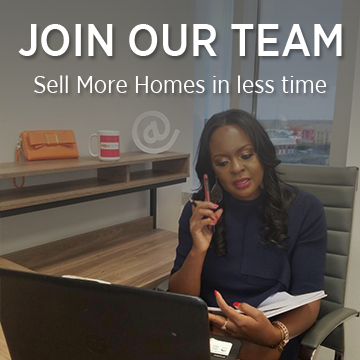
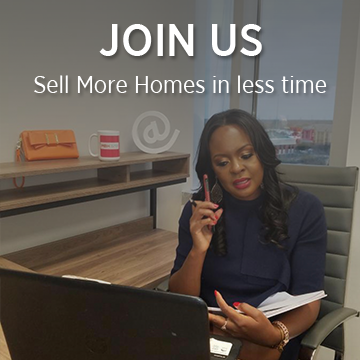
event brite and jot page

Changed region(s): [[0.0306, 0.0611, 0.9778, 0.1833]]

diff --git a/_site/join-us/index.html b/_site/join-us/index.html
@@ -16,7 +16,7 @@
   <link href='https://fonts.googleapis.com/css?family=Source+Sans+Pro:400,600,300,300italic,200' rel='stylesheet' type='text/css'>
   <!-- style-->
   <link rel="stylesheet" href="/css/main.css">
-  <link rel="canonical" href="http://localhost:4000/join-our-team/">
+  <link rel="canonical" href="http://localhost:4000/join-us/">
   <link rel="alternate" type="application/rss+xml" title="Houston's Best Real Estate Training" href="http://localhost:4000/feed.xml">
   <!-- All that meta crap -->
   <meta name="description" content="Thurayah McBride, a top Real Estate Agent in Houston, shares her own internal real estate agent training for free. Her Real Estate Training, Tips and Advice will help you sell more homes in less time.
@@ -30,7 +30,7 @@
   <meta property="og:type" content="website">
   <meta property="og:title" content="Houston Careers">
   <meta itemprop="name" content="Houston Careers">
-  <meta property="og:url" content="http://localhost:4000/join-our-team/">
+  <meta property="og:url" content="http://localhost:4000/join-us/">
   <meta property="og:description" content="Thurayah McBride, a top Real Estate Agent in Houston, shares her own internal real estate agent training for free. Her Real Estate Training, Tips and Advice will help you sell more homes in less time.">
   <meta property="og:site_name" content="Houston's Best Real Estate Training">
   <meta property="og:locale" content="en_US">
@@ -78,9 +78,9 @@
 			<li><a href="/">Home</a></li>
 			
 				
-      		<li><a href="/join-our-team/">Join Our Team</a></li>
+      		<li><a href="/join-us/">Join us</a></li>
     		
-      		<li><a href="">Events</a></li>
+      		<li><a href="http://mcbridehomegroup.eventbrite.com/">Events</a></li>
     		
       		<li><a href="/contact/">Free Strategy Call</a></li>
     		
@@ -107,8 +107,8 @@
 			<div class="row">
 				<div class="col-lg-10 col-lg-offset-1">
 					<div class="recruiting-page">
-<h1 class="join-us">Growing Real Estate Teams in Houston</h1>
-<h5 class="join-us-subtitle">How would your life change if you consistently earned $80,000, $100,000, or $150,000 or more as a full-time real estate agent?</h5>
+<!-- <h1 class="join-us">Growing Real Estate Teams in Houston</h1> -->
+<h3 class="join-us-subtitle">How would your life change if you consistently earned $80,000, $100,000, or $150,000 or more as a full-time real estate agent?</h3>
 <div class="recruiting-photo">
 <span class="client-image-container">
 <img src="/img/headshot.jpg" alt="Thurayah McBride" class="client-image" />

diff --git a/_site/homesearch/index.html b/_site/homesearch/index.html
@@ -95,9 +95,9 @@
 			<li><a href="/">Home</a></li>
 			
 				
-      		<li><a href="/join-our-team/">Join Our Team</a></li>
+      		<li><a href="/join-us/">Join us</a></li>
     		
-      		<li><a href="">Events</a></li>
+      		<li><a href="http://mcbridehomegroup.eventbrite.com/">Events</a></li>
     		
       		<li><a href="/contact/">Free Strategy Call</a></li>
     		
@@ -392,7 +392,7 @@ function setReturn(){
 
 <div class="photo-cta">
   <img src="/img/cta-images/workshop.png"  class="photo-cta-container"/>
-  <div class="cta-button"><a href="/">Reserve Your Seat   <i class="fa fa-angle-double-right"></i></a></div>
+  <div class="cta-button"><a href="http://mcbridehomegroup.eventbrite.com/">Reserve Your Seat   <i class="fa fa-angle-double-right"></i></a></div>
 </div>
 
 			</div>
@@ -476,7 +476,7 @@ function setReturn(){
 
 <div class="photo-cta">
   <img src="/img/cta-images/workshop.png"  class="photo-cta-container"/>
-  <div class="cta-button"><a href="/">Reserve Your Seat   <i class="fa fa-angle-double-right"></i></a></div>
+  <div class="cta-button"><a href="http://mcbridehomegroup.eventbrite.com/">Reserve Your Seat   <i class="fa fa-angle-double-right"></i></a></div>
 </div>
 
 					

diff --git a/_site/homevalue/index.html b/_site/homevalue/index.html
@@ -95,9 +95,9 @@
 			<li><a href="/">Home</a></li>
 			
 				
-      		<li><a href="/join-our-team/">Join Our Team</a></li>
+      		<li><a href="/join-us/">Join us</a></li>
     		
-      		<li><a href="">Events</a></li>
+      		<li><a href="http://mcbridehomegroup.eventbrite.com/">Events</a></li>
     		
       		<li><a href="/contact/">Free Strategy Call</a></li>
     		
@@ -367,7 +367,7 @@ function setReturn(){
 
 <div class="photo-cta">
   <img src="/img/cta-images/workshop.png"  class="photo-cta-container"/>
-  <div class="cta-button"><a href="/">Reserve Your Seat   <i class="fa fa-angle-double-right"></i></a></div>
+  <div class="cta-button"><a href="http://mcbridehomegroup.eventbrite.com/">Reserve Your Seat   <i class="fa fa-angle-double-right"></i></a></div>
 </div>
 
 			</div>
@@ -451,7 +451,7 @@ function setReturn(){
 
 <div class="photo-cta">
   <img src="/img/cta-images/workshop.png"  class="photo-cta-container"/>
-  <div class="cta-button"><a href="/">Reserve Your Seat   <i class="fa fa-angle-double-right"></i></a></div>
+  <div class="cta-button"><a href="http://mcbridehomegroup.eventbrite.com/">Reserve Your Seat   <i class="fa fa-angle-double-right"></i></a></div>
 </div>
 
 					

diff --git a/_site/search.html b/_site/search.html
@@ -86,9 +86,9 @@
 			<li><a href="/">Home</a></li>
 			
 				
-      		<li><a href="/join-our-team/">Join Our Team</a></li>
+      		<li><a href="/join-us/">Join us</a></li>
     		
-      		<li><a href="">Events</a></li>
+      		<li><a href="http://mcbridehomegroup.eventbrite.com/">Events</a></li>
     		
       		<li><a href="/contact/">Free Strategy Call</a></li>
     		
@@ -273,7 +273,7 @@
 
 <div class="photo-cta">
   <img src="/img/cta-images/workshop.png"  class="photo-cta-container"/>
-  <div class="cta-button"><a href="/">Reserve Your Seat   <i class="fa fa-angle-double-right"></i></a></div>
+  <div class="cta-button"><a href="http://mcbridehomegroup.eventbrite.com/">Reserve Your Seat   <i class="fa fa-angle-double-right"></i></a></div>
 </div>
 
 				  <div class="library-container">
@@ -376,7 +376,7 @@
 
 <div class="photo-cta">
   <img src="/img/cta-images/workshop.png"  class="photo-cta-container"/>
-  <div class="cta-button"><a href="/">Reserve Your Seat   <i class="fa fa-angle-double-right"></i></a></div>
+  <div class="cta-button"><a href="http://mcbridehomegroup.eventbrite.com/">Reserve Your Seat   <i class="fa fa-angle-double-right"></i></a></div>
 </div>
 
 			</div>

diff --git a/_site/this-is-a-test-post-copy.html b/_site/this-is-a-test-post-copy.html
@@ -85,9 +85,9 @@
 			<li><a href="/">Home</a></li>
 			
 				
-      		<li><a href="/join-our-team/">Join Our Team</a></li>
+      		<li><a href="/join-us/">Join us</a></li>
     		
-      		<li><a href="">Events</a></li>
+      		<li><a href="http://mcbridehomegroup.eventbrite.com/">Events</a></li>
     		
       		<li><a href="/contact/">Free Strategy Call</a></li>
     		
@@ -249,7 +249,7 @@
 
 <div class="photo-cta">
   <img src="/img/cta-images/workshop.png"  class="photo-cta-container"/>
-  <div class="cta-button"><a href="/">Reserve Your Seat   <i class="fa fa-angle-double-right"></i></a></div>
+  <div class="cta-button"><a href="http://mcbridehomegroup.eventbrite.com/">Reserve Your Seat   <i class="fa fa-angle-double-right"></i></a></div>
 </div>
 
 			</div>
@@ -332,7 +332,7 @@
 
 <div class="photo-cta">
   <img src="/img/cta-images/workshop.png"  class="photo-cta-container"/>
-  <div class="cta-button"><a href="/">Reserve Your Seat   <i class="fa fa-angle-double-right"></i></a></div>
+  <div class="cta-button"><a href="http://mcbridehomegroup.eventbrite.com/">Reserve Your Seat   <i class="fa fa-angle-double-right"></i></a></div>
 </div>
 
 				  <div class="library-container">

diff --git a/_site/404.html b/_site/404.html
@@ -95,9 +95,9 @@
 			<li><a href="/">Home</a></li>
 			
 				
-      		<li><a href="/join-our-team/">Join Our Team</a></li>
+      		<li><a href="/join-us/">Join us</a></li>
     		
-      		<li><a href="">Events</a></li>
+      		<li><a href="http://mcbridehomegroup.eventbrite.com/">Events</a></li>
     		
       		<li><a href="/contact/">Free Strategy Call</a></li>
     		
@@ -211,7 +211,7 @@
 
 <div class="photo-cta">
   <img src="/img/cta-images/workshop.png"  class="photo-cta-container"/>
-  <div class="cta-button"><a href="/">Reserve Your Seat   <i class="fa fa-angle-double-right"></i></a></div>
+  <div class="cta-button"><a href="http://mcbridehomegroup.eventbrite.com/">Reserve Your Seat   <i class="fa fa-angle-double-right"></i></a></div>
 </div>
 
 			</div>
@@ -295,7 +295,7 @@
 
 <div class="photo-cta">
   <img src="/img/cta-images/workshop.png"  class="photo-cta-container"/>
-  <div class="cta-button"><a href="/">Reserve Your Seat   <i class="fa fa-angle-double-right"></i></a></div>
+  <div class="cta-button"><a href="http://mcbridehomegroup.eventbrite.com/">Reserve Your Seat   <i class="fa fa-angle-double-right"></i></a></div>
 </div>
 
 					

diff --git a/_site/about/index.html b/_site/about/index.html
@@ -95,9 +95,9 @@
 			<li><a href="/">Home</a></li>
 			
 				
-      		<li><a href="/join-our-team/">Join Our Team</a></li>
+      		<li><a href="/join-us/">Join us</a></li>
     		
-      		<li><a href="">Events</a></li>
+      		<li><a href="http://mcbridehomegroup.eventbrite.com/">Events</a></li>
     		
       		<li><a href="/contact/">Free Strategy Call</a></li>
     		
@@ -210,7 +210,7 @@
 
 <div class="photo-cta">
   <img src="/img/cta-images/workshop.png"  class="photo-cta-container"/>
-  <div class="cta-button"><a href="/">Reserve Your Seat   <i class="fa fa-angle-double-right"></i></a></div>
+  <div class="cta-button"><a href="http://mcbridehomegroup.eventbrite.com/">Reserve Your Seat   <i class="fa fa-angle-double-right"></i></a></div>
 </div>
 
 			</div>
@@ -294,7 +294,7 @@
 
 <div class="photo-cta">
   <img src="/img/cta-images/workshop.png"  class="photo-cta-container"/>
-  <div class="cta-button"><a href="/">Reserve Your Seat   <i class="fa fa-angle-double-right"></i></a></div>
+  <div class="cta-button"><a href="http://mcbridehomegroup.eventbrite.com/">Reserve Your Seat   <i class="fa fa-angle-double-right"></i></a></div>
 </div>
 
 					

diff --git a/_site/contact/index.html b/_site/contact/index.html
@@ -95,9 +95,9 @@
 			<li><a href="/">Home</a></li>
 			
 				
-      		<li><a href="/join-our-team/">Join Our Team</a></li>
+      		<li><a href="/join-us/">Join us</a></li>
     		
-      		<li><a href="">Events</a></li>
+      		<li><a href="http://mcbridehomegroup.eventbrite.com/">Events</a></li>
     		
       		<li><a href="/contact/">Free Strategy Call</a></li>
     		
@@ -233,7 +233,7 @@
 
 <div class="photo-cta">
   <img src="/img/cta-images/workshop.png"  class="photo-cta-container"/>
-  <div class="cta-button"><a href="/">Reserve Your Seat   <i class="fa fa-angle-double-right"></i></a></div>
+  <div class="cta-button"><a href="http://mcbridehomegroup.eventbrite.com/">Reserve Your Seat   <i class="fa fa-angle-double-right"></i></a></div>
 </div>
 
 			</div>
@@ -317,7 +317,7 @@
 
 <div class="photo-cta">
   <img src="/img/cta-images/workshop.png"  class="photo-cta-container"/>
-  <div class="cta-button"><a href="/">Reserve Your Seat   <i class="fa fa-angle-double-right"></i></a></div>
+  <div class="cta-button"><a href="http://mcbridehomegroup.eventbrite.com/">Reserve Your Seat   <i class="fa fa-angle-double-right"></i></a></div>
 </div>
 
 					

diff --git a/_site/index.html b/_site/index.html
@@ -95,9 +95,9 @@
 			<li><a href="/">Home</a></li>
 			
 				
-      		<li><a href="/join-our-team/">Join Our Team</a></li>
+      		<li><a href="/join-us/">Join us</a></li>
     		
-      		<li><a href="">Events</a></li>
+      		<li><a href="http://mcbridehomegroup.eventbrite.com/">Events</a></li>
     		
       		<li><a href="/contact/">Free Strategy Call</a></li>
     		
@@ -239,7 +239,7 @@
 
 <div class="photo-cta">
   <img src="/img/cta-images/workshop.png"  class="photo-cta-container"/>
-  <div class="cta-button"><a href="/">Reserve Your Seat   <i class="fa fa-angle-double-right"></i></a></div>
+  <div class="cta-button"><a href="http://mcbridehomegroup.eventbrite.com/">Reserve Your Seat   <i class="fa fa-angle-double-right"></i></a></div>
 </div>
 
 			</div>
@@ -323,7 +323,7 @@
 
 <div class="photo-cta">
   <img src="/img/cta-images/workshop.png"  class="photo-cta-container"/>
-  <div class="cta-button"><a href="/">Reserve Your Seat   <i class="fa fa-angle-double-right"></i></a></div>
+  <div class="cta-button"><a href="http://mcbridehomegroup.eventbrite.com/">Reserve Your Seat   <i class="fa fa-angle-double-right"></i></a></div>
 </div>
 
 					

diff --git a/_site/mission/index.html b/_site/mission/index.html
@@ -95,9 +95,9 @@
 			<li><a href="/">Home</a></li>
 			
 				
-      		<li><a href="/join-our-team/">Join Our Team</a></li>
+      		<li><a href="/join-us/">Join us</a></li>
     		
-      		<li><a href="">Events</a></li>
+      		<li><a href="http://mcbridehomegroup.eventbrite.com/">Events</a></li>
     		
       		<li><a href="/contact/">Free Strategy Call</a></li>
     		
@@ -212,7 +212,7 @@
 
 <div class="photo-cta">
   <img src="/img/cta-images/workshop.png"  class="photo-cta-container"/>
-  <div class="cta-button"><a href="/">Reserve Your Seat   <i class="fa fa-angle-double-right"></i></a></div>
+  <div class="cta-button"><a href="http://mcbridehomegroup.eventbrite.com/">Reserve Your Seat   <i class="fa fa-angle-double-right"></i></a></div>
 </div>
 
 			</div>
@@ -296,7 +296,7 @@
 
 <div class="photo-cta">
   <img src="/img/cta-images/workshop.png"  class="photo-cta-container"/>
-  <div class="cta-button"><a href="/">Reserve Your Seat   <i class="fa fa-angle-double-right"></i></a></div>
+  <div class="cta-button"><a href="http://mcbridehomegroup.eventbrite.com/">Reserve Your Seat   <i class="fa fa-angle-double-right"></i></a></div>
 </div>
 
 					

diff --git a/_site/testimonials/index.html b/_site/testimonials/index.html
@@ -95,9 +95,9 @@
 			<li><a href="/">Home</a></li>
 			
 				
-      		<li><a href="/join-our-team/">Join Our Team</a></li>
+      		<li><a href="/join-us/">Join us</a></li>
     		
-      		<li><a href="">Events</a></li>
+      		<li><a href="http://mcbridehomegroup.eventbrite.com/">Events</a></li>
     		
       		<li><a href="/contact/">Free Strategy Call</a></li>
     		
@@ -219,7 +219,7 @@
 
 <div class="photo-cta">
   <img src="/img/cta-images/workshop.png"  class="photo-cta-container"/>
-  <div class="cta-button"><a href="/">Reserve Your Seat   <i class="fa fa-angle-double-right"></i></a></div>
+  <div class="cta-button"><a href="http://mcbridehomegroup.eventbrite.com/">Reserve Your Seat   <i class="fa fa-angle-double-right"></i></a></div>
 </div>
 
 			</div>
@@ -303,7 +303,7 @@
 
 <div class="photo-cta">
   <img src="/img/cta-images/workshop.png"  class="photo-cta-container"/>
-  <div class="cta-button"><a href="/">Reserve Your Seat   <i class="fa fa-angle-double-right"></i></a></div>
+  <div class="cta-button"><a href="http://mcbridehomegroup.eventbrite.com/">Reserve Your Seat   <i class="fa fa-angle-double-right"></i></a></div>
 </div>
 
 					

diff --git a/_includes/cta-sidebar.html b/_includes/cta-sidebar.html
@@ -18,5 +18,5 @@
 
 <div class="photo-cta">
   <img src="/img/cta-images/workshop.png"  class="photo-cta-container"/>
-  <div class="cta-button"><a href="/">Reserve Your Seat   <i class="fa fa-angle-double-right"></i></a></div>
+  <div class="cta-button"><a href="http://mcbridehomegroup.eventbrite.com/">Reserve Your Seat   <i class="fa fa-angle-double-right"></i></a></div>
 </div>
